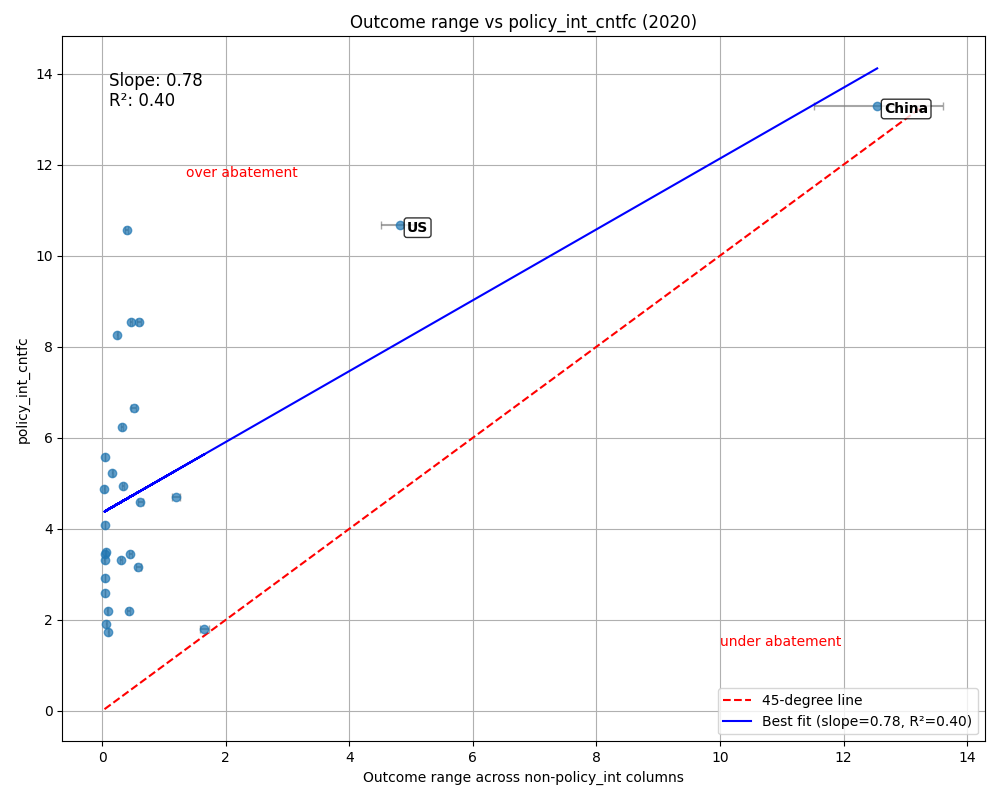
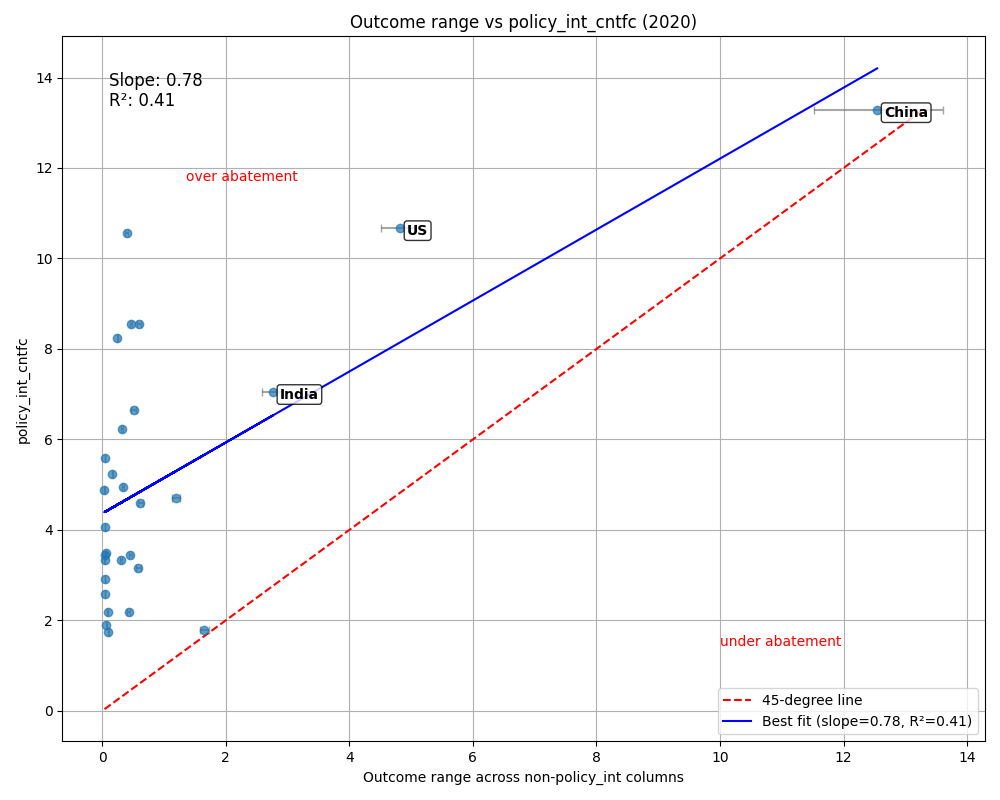
india is NDE??

diff --git a/plot_ssp2_vs_policy.py b/plot_ssp2_vs_policy.py
@@ -63,7 +63,7 @@ plt.text(max_val - 0.1 * (max_val - min_val), min_val + 0.1 * (max_val - min_val
          color='red', fontsize=10, ha='right', va='bottom')
 
 # Label key countries by region code
-for code, label in [('usa', 'US'), ('chn', 'China'), ('ind', 'India')]:
+for code, label in [('usa', 'US'), ('chn', 'China'), ('nde', 'India')]:
     row = plot_df[plot_df['n'] == code]
     if not row.empty:
         x_val = row['mean_outcome'].values[0]

diff --git a/transform_regional_data.py b/transform_regional_data.py
@@ -39,7 +39,7 @@ if year == 2020:
         'Greece': 'grc',
         'Hungary': 'hun',
         'Iceland': 'isl',
-        'India': 'ind',
+        'India': 'nde',
         'Indonesia': 'idn',
         'Ireland': 'irl',
         'Israel': 'isr',
